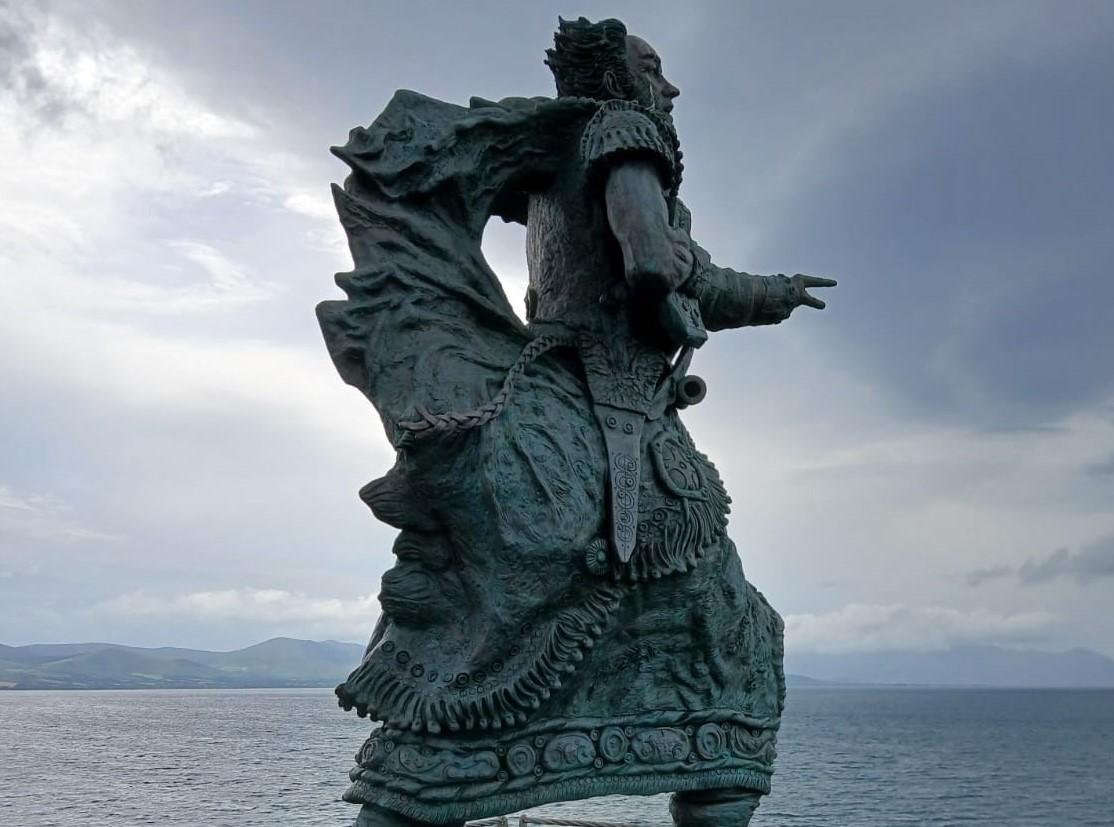
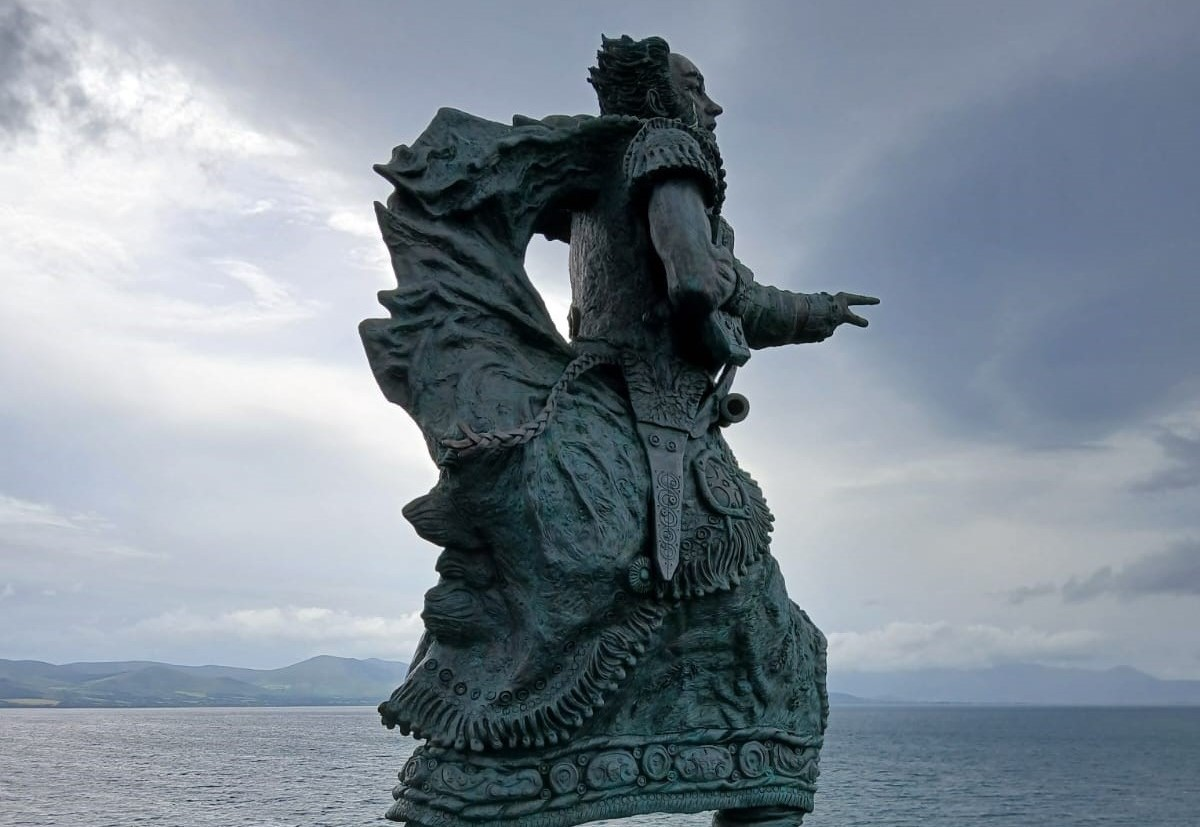
resized statue image on home page to improve loading performance

diff --git a/assets/css/style.css b/assets/css/style.css
@@ -166,7 +166,7 @@ main {
 
 /*Voyage Page*/
 #voyage-image {
-    background: url(../images/brandoncreek.jpg) no-repeat center center/cover;
+    background: url(../images/brandoncreekresized.jpg) no-repeat center center/cover;
     position: relative;
     height: 300px;
     width: 100%;
